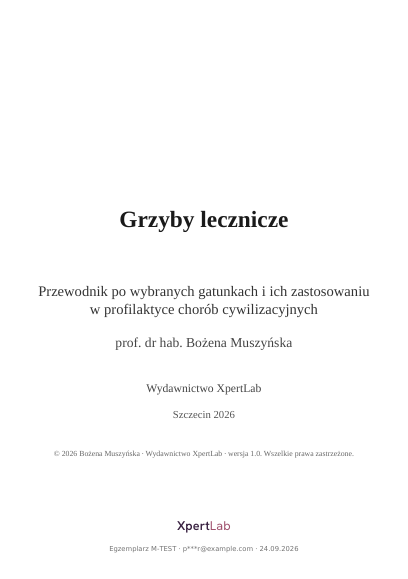
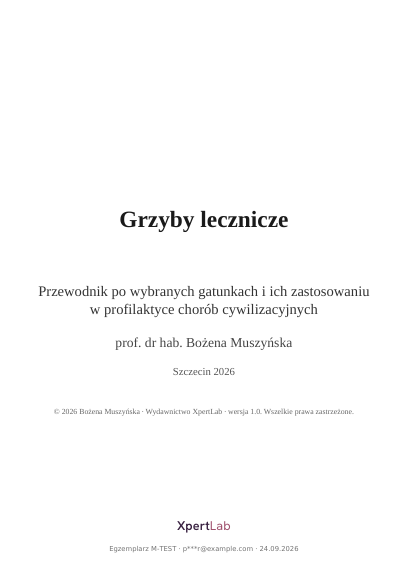
chore(dostawy): Grzyby bez wiersza wydawcy na stronie tytulowej w XpertHubie (v1.0-wydawca-xpertlab-2), 7 produktow przepietych

Changed region(s): [[0.1471, 0.6218, 0.8529, 0.7461], [0.1471, 0.7772, 0.8529, 0.8083]]

diff --git a/docs/dostawy/xpertlab-wydawca-2026-09-24/wgraj_xperthub.py b/docs/dostawy/xpertlab-wydawca-2026-09-24/wgraj_xperthub.py
@@ -4,7 +4,7 @@ v1.0-wydawca-xpertlab, bez nadpisywania) i przepina file_path/epub_path w produk
 Klucze czytane z XpertHub/.env.local. Backup produktow: backup-produkty-xperthub-przed.json (stan sprzed 24.09).
 Uzycie: python3 wgraj_xperthub.py            (wgranie + weryfikacja, bez przepiecia)
         python3 wgraj_xperthub.py --przepnij (przepiecie produktow)
-        python3 wgraj_xperthub.py --cofnij   (przywraca sciezki z backupu; pliki w Storage zostaja)"""
+        python3 wgraj_xperthub.py --cofnij   (przywraca sciezki z backupu tej rundy; pliki w Storage zostaja)"""
 import hashlib, json, pathlib, sys, urllib.request, urllib.error
 HERE = pathlib.Path(__file__).parent
 env = {}
@@ -14,8 +14,11 @@ for l in (pathlib.Path.home() / "Documents/SaaS_Factory2026/App_Factory/XpertHub
         k, v = l.split("=", 1); env[k.strip()] = v.strip().strip('"').strip("'")
 URL, KEY = env["NEXT_PUBLIC_SUPABASE_URL"].rstrip("/"), env["SUPABASE_SERVICE_ROLE_KEY"]
 SRC = pathlib.Path.home() / "Downloads/xpertlab-wydawca-2026-09-24"
+# Druga runda 24.09: bez wiersza "Wydawnictwo XpertLab" na stronie tytulowej (logo zostaje).
+# Pierwsza runda: "bozena-muszynska/v1.0-xpertlab/..." -> v1.0-wydawca-xpertlab, backup-produkty-xperthub-przed.json.
+RUNDA = "-2"
 KSIAZKI = {  # stary file_path -> (nowy katalog, nazwa pliku)
-    "bozena-muszynska/v1.0-xpertlab/grzyby-lecznicze-v1.0.pdf": ("bozena-muszynska/v1.0-wydawca-xpertlab", "grzyby-lecznicze-v1.0"),
+    "bozena-muszynska/v1.0-wydawca-xpertlab/grzyby-lecznicze-v1.0.pdf": ("bozena-muszynska/v1.0-wydawca-xpertlab-2", "grzyby-lecznicze-v1.0"),
 }
 TYPY = {"pdf": "application/pdf", "epub": "application/epub+zip"}
 
@@ -30,7 +33,7 @@ def produkty(stary_pdf):
     return json.loads(call(f"{URL}/rest/v1/products?file_path=eq.{q}&select=id,slug,file_path,epub_path"))
 
 import urllib.parse
-BK = HERE / "backup-produkty-xperthub-przed.json"
+BK = HERE / f"backup-produkty-xperthub-przed{RUNDA}.json"
 
 if "--cofnij" in sys.argv:
     for p in json.loads(BK.read_text()):
